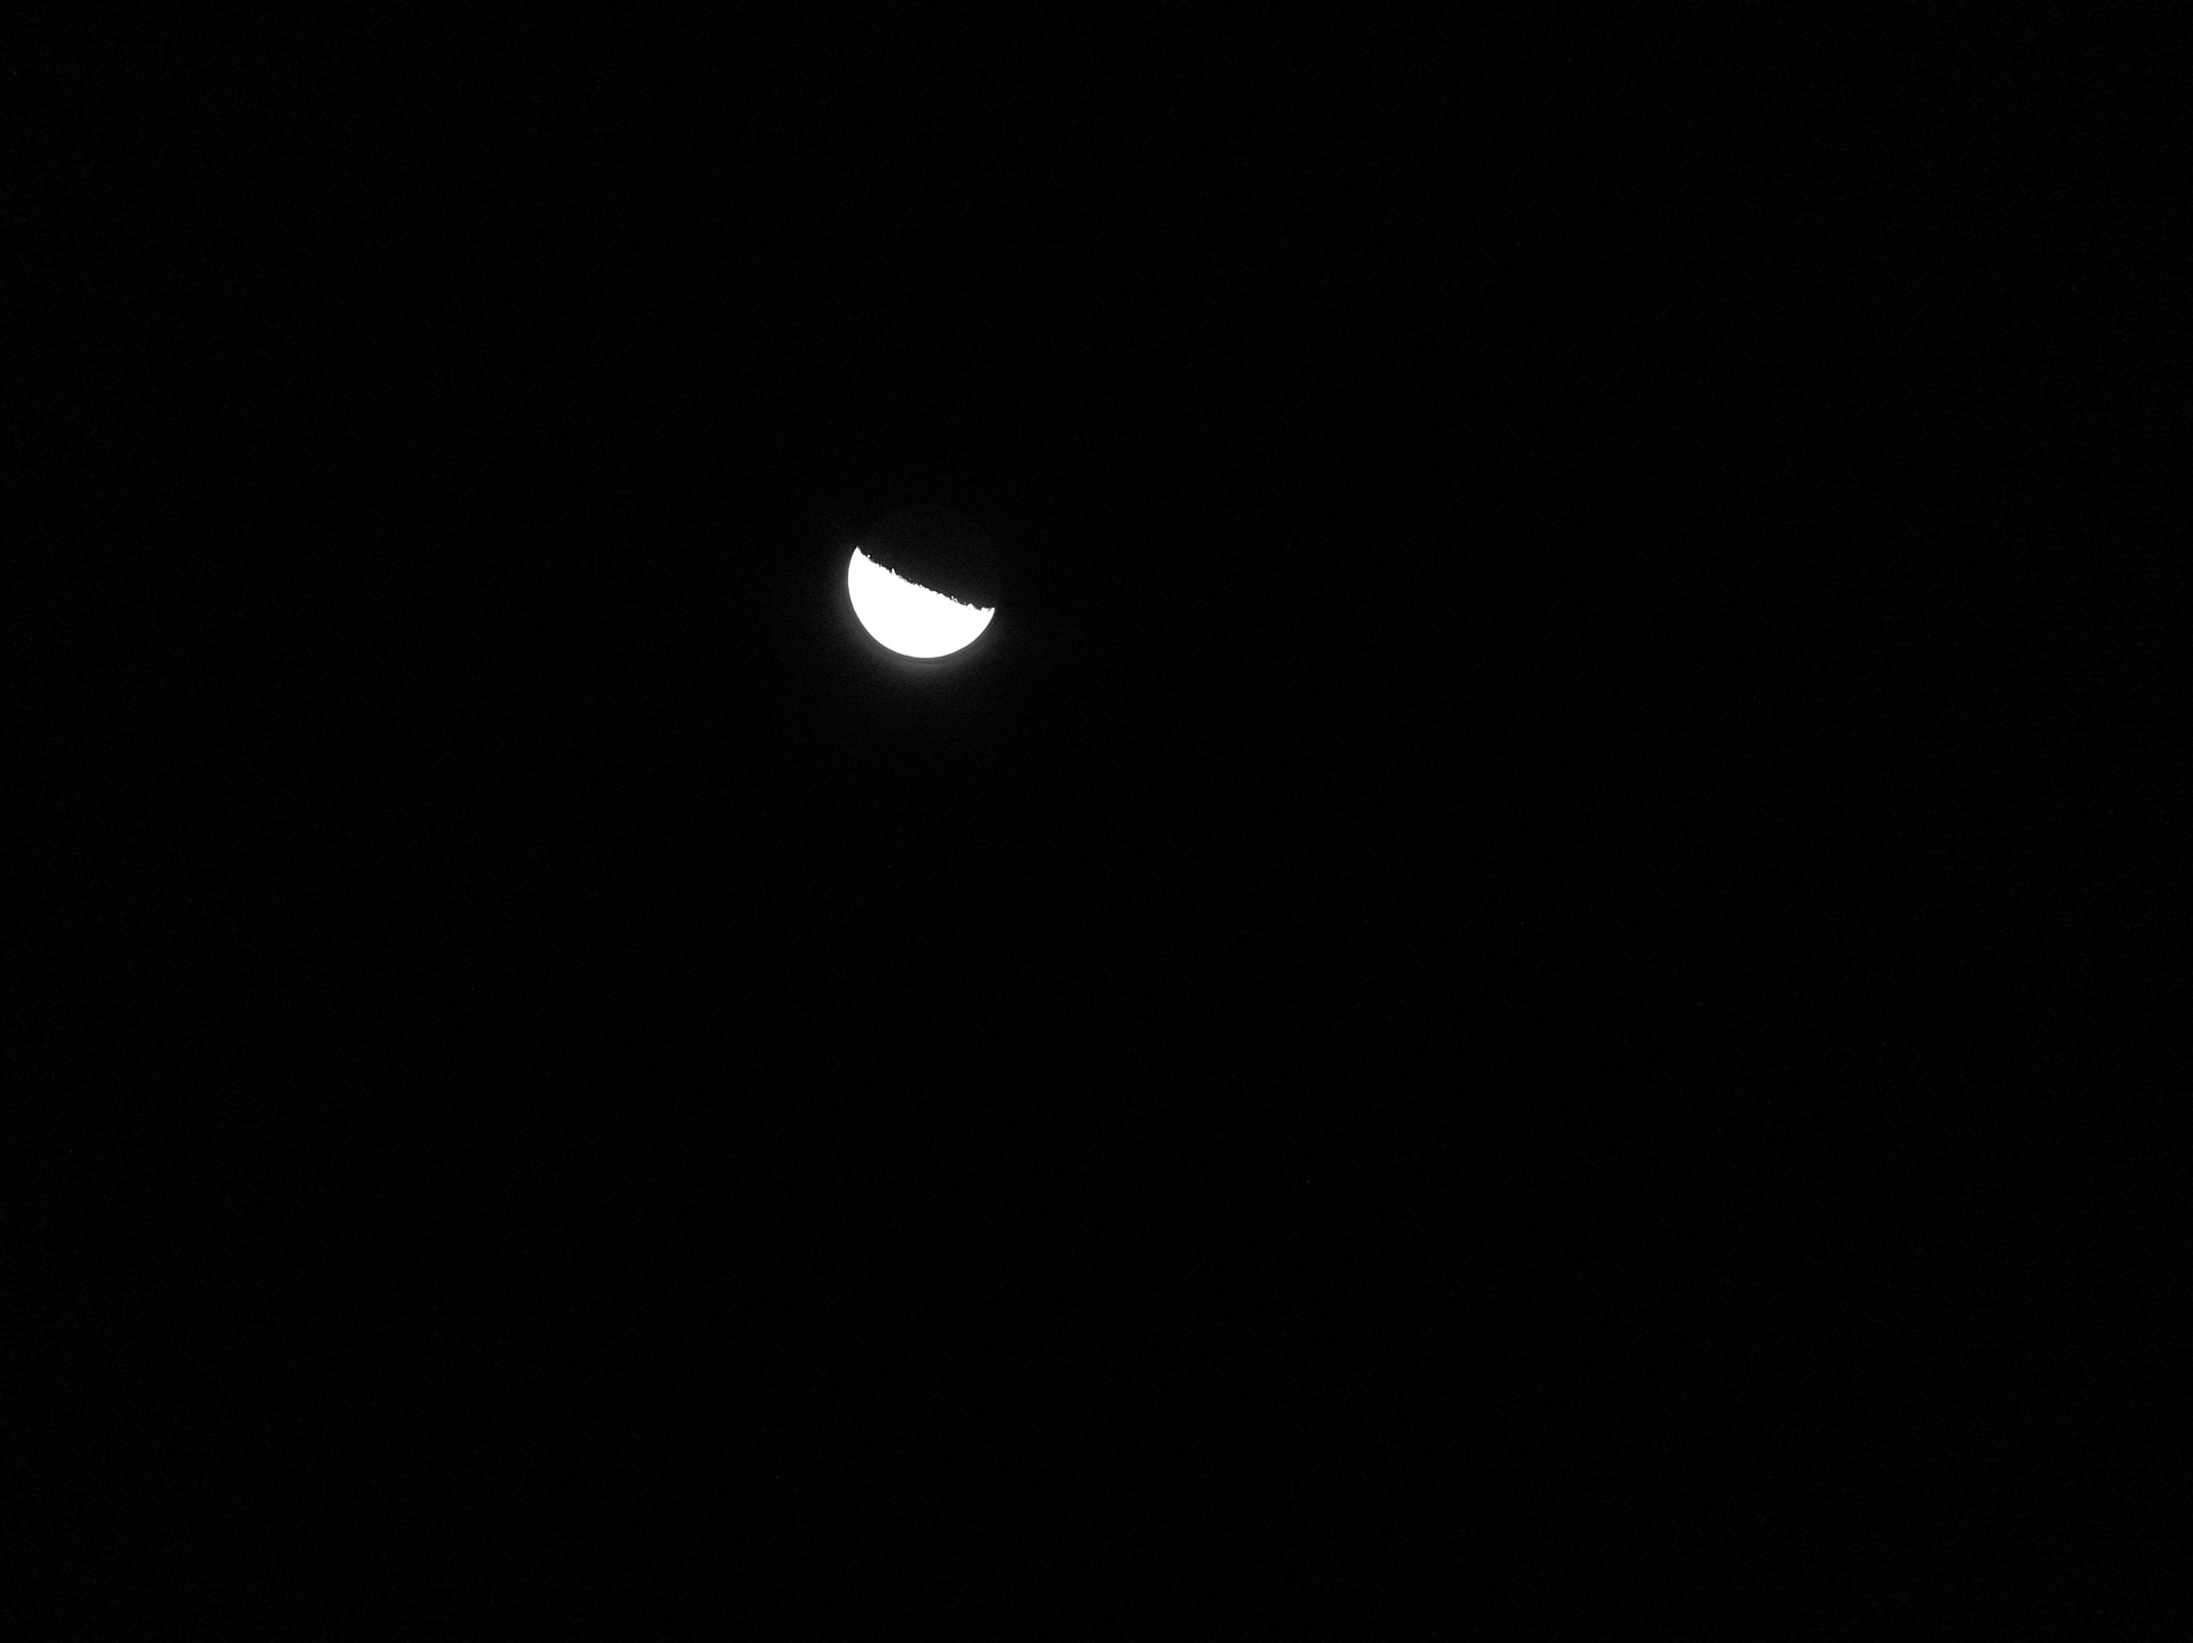
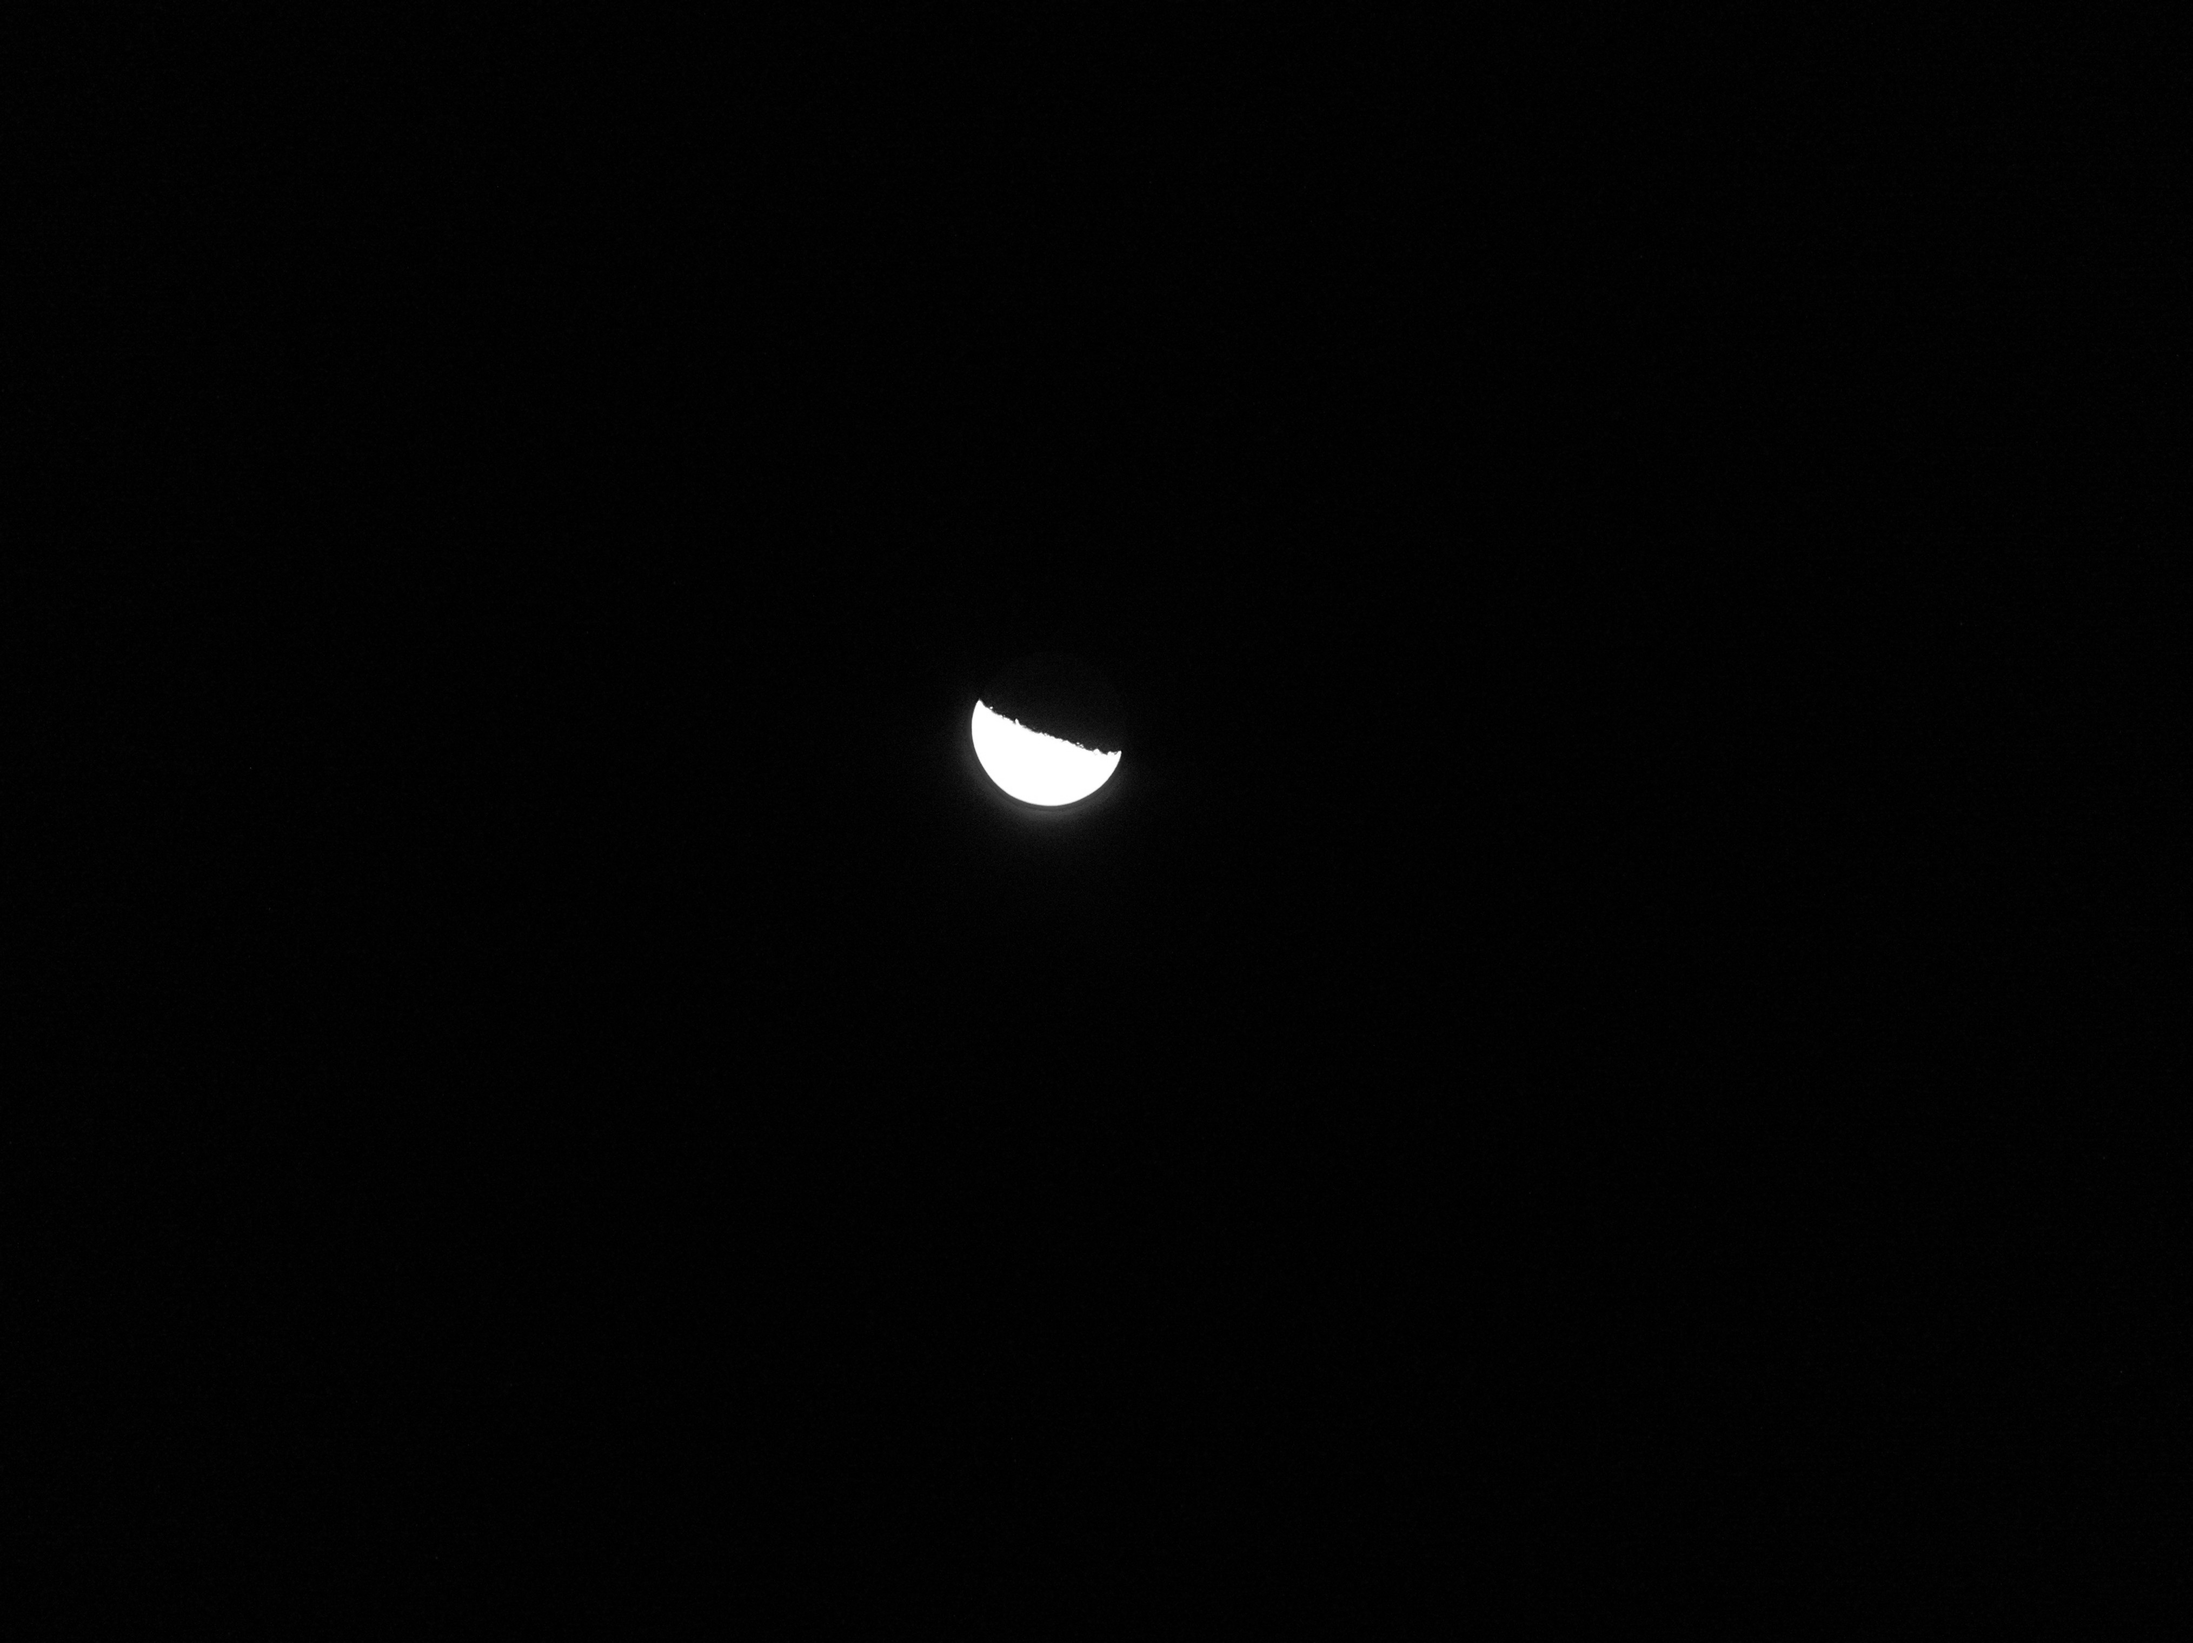
updated for overlay testing

Changed region(s): [[0.3728, 0.3125, 0.5281, 0.5312]]

diff --git a/main_testing.py b/main_testing.py
@@ -115,7 +115,7 @@ def output_images_in_grid(folder, scale_factor=1.0):
     
     return
 
-    
+
 
 
 threshold = 0
@@ -129,35 +129,64 @@ image_files = [f for f in os.listdir(folder) if f.endswith(('.jpg', '.png'))]
 first_img = cv.imread(os.path.join(folder, image_files[0]))
 
 # Center Point of the Image in (X,Y) Coordinates for initialization
-prev_center = (int(first_img.shape[0]//2), int(first_img.shape[1]//2))
+shape = first_img.shape
+image_center = (int(shape[0]//2), int(shape[1]//2)) 
+(reference_x, reference_y) = image_center
+
 
 i = 0
 while i < len(image_files): 
     
+    start_frame = time.time()
+    
     print(f"\n### {image_files[i]} ###")
     
     # get image file into python
-    image = cv.imread(os.path.join(folder, image_files[i])) 
+    org_image = cv.imread(os.path.join(folder, image_files[i])) 
         
-    processed = preprocessing(image, threshold = threshold, blur = blur)
+    processed = preprocessing(org_image, threshold = threshold, blur = blur)
     
-    target = clc.moonposition(processed, param)
+    (target_x, target_y, target_radius) = clc.moonposition(processed, 1)
        
     # sammeln der kommandos, nicht der position
     #motion_buffer.append((time.time(),target))
     
-    deviation = clc.get_deviation(prev_center, target)
-    print(f"Deviation from previous: {deviation}")
+    deviation = clc.get_deviation((reference_x, reference_y), (target_x, target_y))
+    print(f"Deviation: {deviation}")
     
-    final = clc.targetmarkers(target,prev_center, image, processed.shape)
+    marked = clc.targetmarkers(
+        target_x,
+        target_y,
+        target_radius,
+        reference_x,
+        reference_y,
+        org_image,
+        overlay = False,
+        scale = 0.2
+        )
     
-    prev_center = target[0:2]
-    #cv.imshow(f'Final Target with center at {target[0]}',final)
-    save_image(final, 'Final')
+    
+    if target_x is not None:
+        reference_x = target_x
+        reference_y = target_y
+    else:
+        reference_x = None
+        reference_y = None
     
         
     try:
-        output_images_in_grid('Output', 0.1)
+        cv.imshow('Camera Output',marked)
+        
+        end_frame = time.time()
+        
+        duration = end_frame - start_frame
+        
+        print(f"Effective framerate of {1/duration:.2f} fps")
+        
+        key = cv.waitKey(0)
+        
+        
+        #output_images_in_grid('Output', 0.1)
         """ change = 0
         temp = input(f"Change Threshold from {threshold}?: ")
         if temp: 

diff --git a/calc.py b/calc.py
@@ -41,8 +41,11 @@ def preprocessing(img, grey = True, threshold = 0, blur = 3):
     
     return(img)
 
-def targetmarkers(target_x, target_y, target_radius, ref_x, ref_y, img, shape, overlay = True):
-    (width, height) = (shape[0], shape[1])
+def targetmarkers(target_x, target_y, target_radius, ref_x, ref_y, img, overlay = True, scale = 1):
+    
+    img = cv.resize(img, None, fx=scale, fy=scale, interpolation= cv.INTER_LINEAR)
+    
+    (width, height) = img.shape[0:2]
     line_color = (0, 0, 255)  # Red in BGR format
     
     # Define the thickness of the lines
@@ -84,7 +87,7 @@ def targetmarkers(target_x, target_y, target_radius, ref_x, ref_y, img, shape, o
         bar_height = int(height * 0.1)
     
         # Create a black bar
-        black_bar = np.zeros((bar_height, width, 3), dtype=np.uint8)
+        black_bar = np.zeros((bar_height, height, 3), dtype=np.uint8)
     
         # Add the text to the black bar
         font = cv.FONT_HERSHEY_SIMPLEX

diff --git a/main.py b/main.py
@@ -69,8 +69,8 @@ while True:
         reference_x,
         reference_y,
         org_image,
-        shape,
-        overlay = True
+        overlay = False,
+        scale = 1
         )
     
     if target_x is not None:
